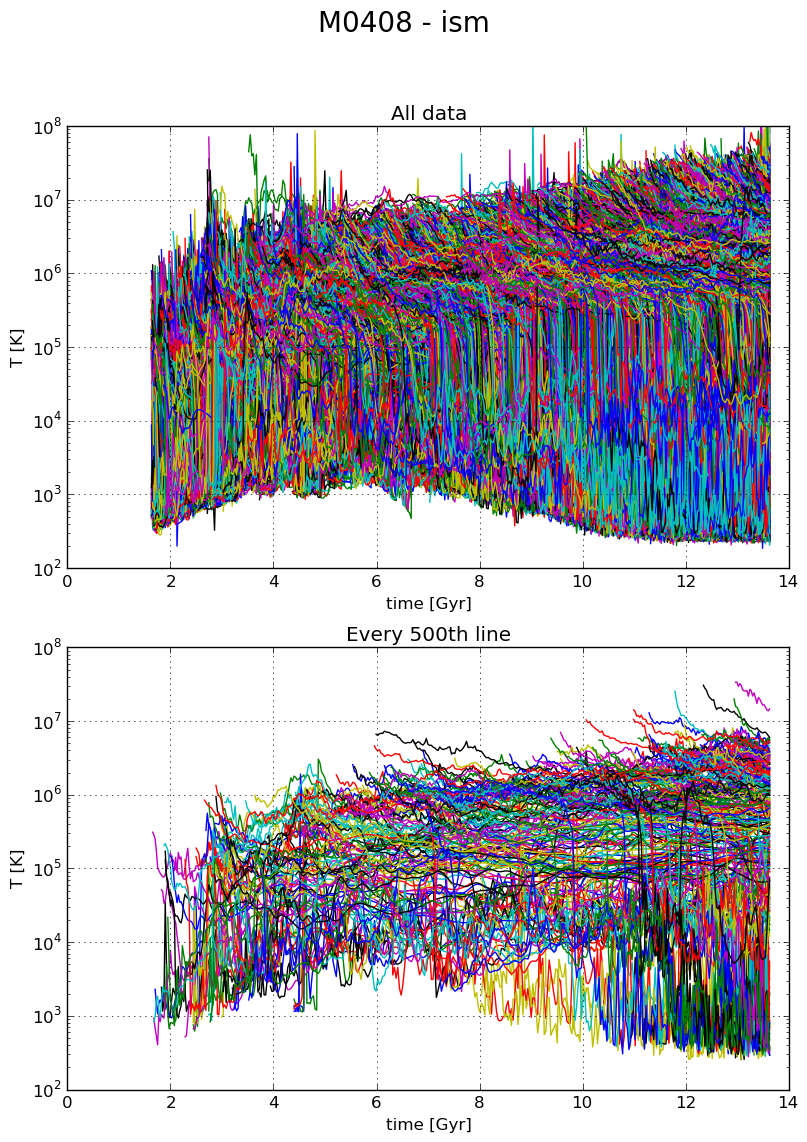
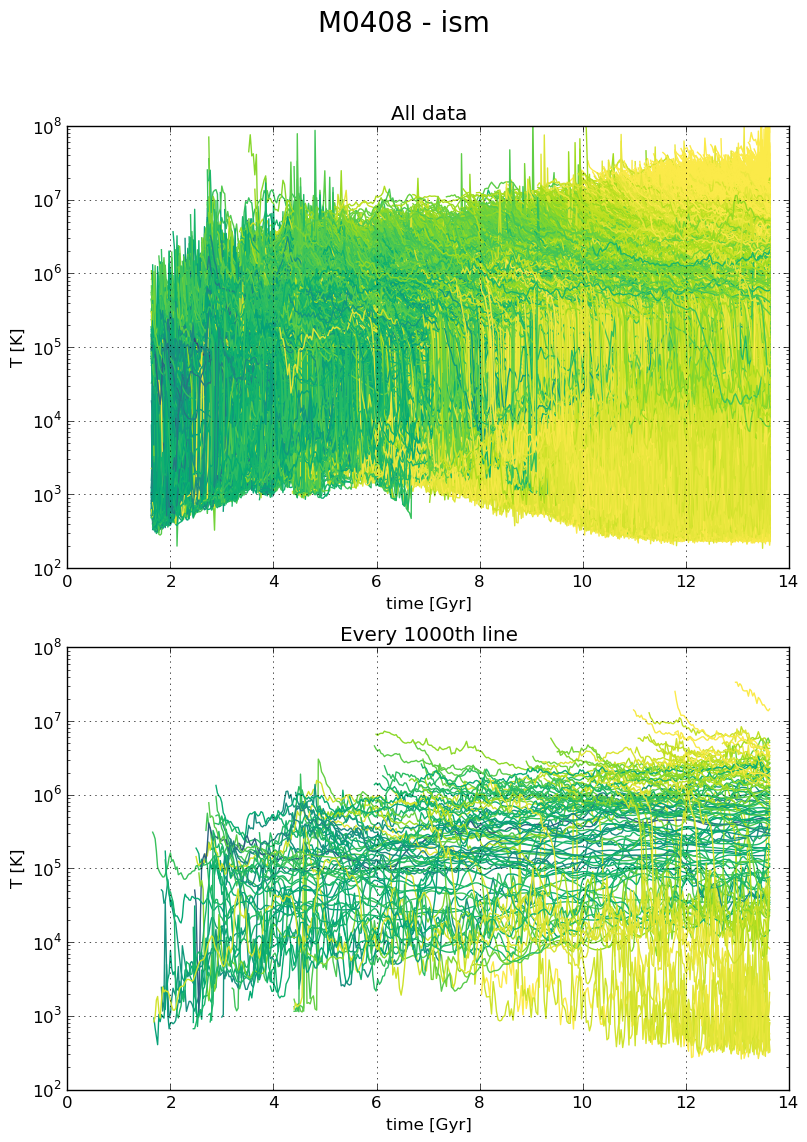
fix colors

diff --git a/1/last_ej_to_now.py b/1/last_ej_to_now.py
@@ -60,12 +60,12 @@ def plot(args):
         ax[0].set_title('All data')
     for i, item in enumerate(to_plot):
         colorVal = scalarMap.to_rgba(colors[i])
-        ax[0].plot(item[:, 0], item[:, 1])
+        ax[0].plot(item[:, 0], item[:, 1], color=colorVal)
         
-        ax[1].set_title('Every 500th line')
-    for i, item in enumerate(to_plot[::500]):
-        colorVal = scalarMap.to_rgba(colors[500*i])
-        ax[1].plot(item[:, 0], item[:, 1])
+        ax[1].set_title('Every 1000th line')
+    for i, item in enumerate(to_plot[::1000]):
+        colorVal = scalarMap.to_rgba(colors[1000*i])
+        ax[1].plot(item[:, 0], item[:, 1], color=colorVal)
 
     f.tight_layout()
     plt.subplots_adjust(top=0.88)
